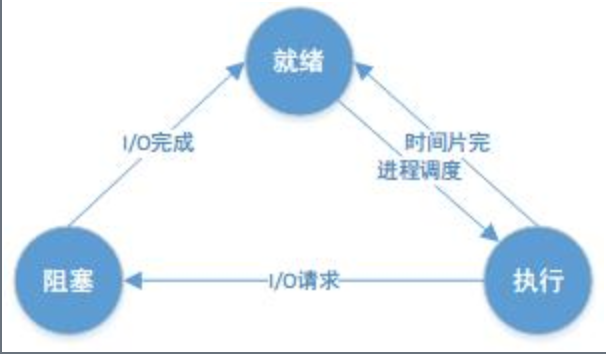
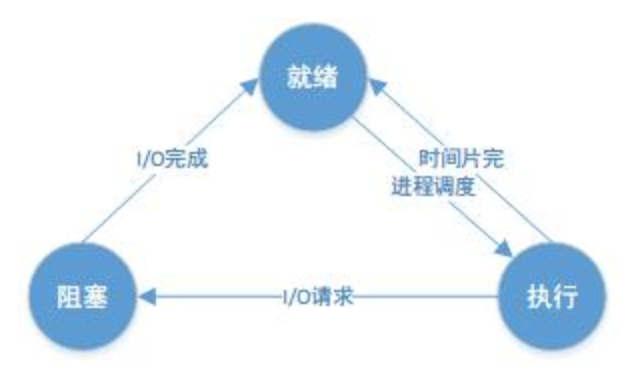
添加进程与线程的区别

Changed region(s): [[0.0, 0.0, 1.0, 1.0]]

diff --git a/Computer.md b/Computer.md
@@ -3,6 +3,7 @@
 #### 目录
 1. [IO操作](#computer_io)
 
+
 ----
 
 <span id = "computer_io"></span>
@@ -43,5 +44,133 @@
 	1. https://www.ibm.com/developerworks/cn/linux/l-cn-zerocopy1/index.html
 	2. https://www.ibm.com/developerworks/cn/linux/l-cn-zerocopy2/index.html
 	3. https://www.zhihu.com/question/27734728
+
+----
+
+<span id = "process_thread"></span>
+#### 进程与线程 [(TOP)](#home)
+1. 进程
+	1. 定义<br>
+		进程是一个具有独立功能的程序关于某个数据集合的一次运行活动。它可以申请和拥有系统资源，是一个动态的概念，是一个活动的实体。它不只是程序的代码，还包括当前的活动，通过程序计数器的值和处理寄存器的内容来表示。<br>
+		进程的概念主要有两点：<br>
+		1. 进程是一个实体，每一个进程都有它自己的地址空间，一般情况下，包括文本区域（text region）、数据区域（data region）和堆栈（stack region）。文本区域存储处理器执行的代码；数据区域存储变量和进程执行期间使用的动态分配的内存；堆栈区域存储着活动过程调用的指令和本地变量。
+		2. 进程是一个“执行中的程序”，程序是一个没有生命的实体，只有处理器赋予程序生命时，它才能成为一个活动的实体，我们称其为进程。
+	
+	2. 进程的基本状态
+		1. 三种状态
+			1. 阻塞态：等待某个事件的完成；
+			2. 就绪态：等待系统分配处理器以便运行；
+			3. 执行态：占有处理器正在运行。
+		2. 进程状态的切换<br>
+			![](https://github.com/yinfork/Android-Interview/blob/master/res/computer/process_state.png?raw=true)
+			1. 执行态 -> 阻塞态：往往是由于等待外设，等待主存等资源分配或等待人工干预而引起的。
+			2. 阻塞态 -> 就绪态：则是等待的条件已满足，只需分配到处理器后就能运行。
+			3. 执行态 -> 就绪态：不是由于自身原因，而是由外界原因使运行状态的进程让出处理器，这时候就变成就绪态。例如时间片用完，或有更高优先级的进程来抢占处理器等。
+			4. 就绪态 -> 执行态：系统按某种策略选中就绪队列中的一个进程占用处理器，此时就变成了运行态
+
+	3. 进程调度<br>
+		调度：执行的某些时刻，内核可以决定抢占当前进程，并重新开始一个先前被抢占的进程，这就是调度（cheduling），由内核中称为调度器（cheduler）代码实现，在内核调度了一个新的进程时，它就抢占当前进程，并进行上下文切换。
+		1. 调度种类<br>
+			高级、中级和低级调度作业从提交开始直到完成，往往要经历下述三级调度：
+			1. 高级调度：又称为作业调度，它决定把后备作业调入内存运行；
+			2. 中级调度：又称为在虚拟存储器中引入，在内、外存对换区进行进程对换。
+			3. 低级调度：又称为进程调度，它决定把就绪队列的某进程获得CPU；
+		
+		2. 非抢占式调度与抢占式调度
+			1. 非抢占式：分派程序一旦把处理机分配给某进程后便让它一直运行下去，直到进程完成或发生进程调度进程调度某事件而阻塞时，才把处理机分配给另一个进程。
+			2. 抢占式：操作系统将正在运行的进程强行暂停，由调度程序将CPU分配给其他就绪进程的调度方式。
+
+		3. 调度策略的设计<br>
+			CPU任务可以分为交互式任务和批处理任务，调度最终的目标是合理的使用CPU，使得交互式任务的响应时间尽可能短，用户不至于感到延迟，同时使得批处理任务的周转时间尽可能短，减少用户等待的时间。
+			1. 响应时间：从用户输入到产生反应的时间
+			2. 周转时间：从任务开始到任务结束的时间
+			3. 平均周转时间：周转总时间除以作业个数
+
+		4. 调度算法<br>
+			TODO：略
+	
+	4. 进程同步
+		1. 临界资源<br>
+			对于某些资源来说，其在同一时间只能被一个进程所占用。这些一次只能被一个进程所占用的资源就是所谓的临界资源。典型的临界资源比如物理上的打印机，或是存在硬盘或内存中被多个进程所共享的一些变量和数据等(如果这类资源不被看成临界资源加以保护，那么很有可能造成丢数据的问题)。
+		
+		2. 访问临界资源<br>
+			在操作系统中，**进程是占有资源的最小单位(线程可以访问其所在进程内的所有资源，但线程本身并不占有资源或仅仅占有一点必须资源)**。<br>
+			对于临界资源的访问，必须是互斥进行。也就是当临界资源被占用时，另一个申请临界资源的进程会被阻塞，直到其所申请的临界资源被释放。而进程内访问临界资源的代码被成为临界区。
+			对于临界区的访问过程分为四个部分：<br>
+			1. 进入区:查看临界区是否可访问，如果可以访问，则转到步骤二，否则进程会被阻塞
+			2. 临界区:在临界区做操作
+			3. 退出区:清除临界区被占用的标志
+			4. 剩余区：进程与临界区不相关部分的代码
+		
+		3. 解决临界区问题可能的方法：
+			1. 一般软件方法
+			2. 关中断方法
+			3. 硬件原子指令方法
+			4. 信号量方法
+
+		4. 信号量
+			信号量是一个确定的二元组（s，q），其中s是一个具有非负初值的整形变量，q是一个初始状态为空的队列
+			1. 整形变量s表示系统中某类资源的数目：
+				1. 当其值 >= 0 时，表示系统中当前可用资源的数目
+				2. 当其值 < 0 时，其绝对值表示系统中因请求该类资源而被阻塞的进程数目
+			2. PV操作<br>
+				除信号量的初值外，信号量的值仅能由P操作和V操作更改，操作系统利用它的状态对进程和资源进行管理
+				1. P操作可以理解为分配资源的计数器，或是使进程处于等待状态的控制指令
+				2. V操作可以理解为归还资源的计数器，或是唤醒进程使其处于就绪状态的控制指令
+
+	5. 进程间通信<br>
+		本地进程间通信的方式有很多，可以总结为下面四类：
+		1. 消息传递（管道、FIFO、消息队列）
+		2. 同步（互斥量、条件变量、读写锁、文件和写记录锁、信号量）
+		3. 共享内存（匿名的和具名的）
+		4. 远程过程调用（Solaris门和Sun RPC）
+
+2. 线程
+	1. 定义<br>
+		线程是 **操作系统能够进行运算调度的最小单位**。它被包含在进程之中，是进程中的实际运作单位。一条线程指的是进程中一个单一顺序的控制流，一个进程中可以并发多个线程，每条线程并行执行不同的任务
+
+	2. 线程的属性
+		1. 轻型实体<br>
+			线程的实体包括：
+			1. 程序
+			2. 数据
+			3. 线程控制块TCB（Thread Control Block）。TCB包括以下信息：
+				1. 线程状态。
+				2. 当线程不运行时，被保存的现场资源。
+				3. 一组执行堆栈。
+				4. 存放每个线程的局部变量主存区。
+				5. 访问同一个进程中的主存和其它资源。
+		
+		2. 独立调度和分派的基本单位：<br>
+			在多线程OS中，线程是能独立运行的基本单位，因而也是独立调度和分派的基本单位。由于线程很“轻”，故线程的切换非常迅速且开销小（在同一进程中的）。
+
+		3. 可并发执行：<br>
+			在一个进程中的多个线程之间，可以并发执行，甚至允许在一个进程中所有线程都能并发执行；同样，不同进程中的线程也能并发执行，充分利用和发挥了处理机与外围设备并行工作的能力。
+
+		4. 共享进程资源：<br>
+			在同一进程中的各个线程，都可以共享该进程所拥有的资源，这首先表现在：所有线程都具有相同的地址空间（进程的地址空间），这意味着，线程可以访问该地址空间的每一个虚地址；此外，还可以访问进程所拥有的已打开文件、定时器、信号量机构等。由于同一个进程内的线程共享内存和文件，所以线程之间互相通信不必调用内核。<br>
+			线程共享的环境包括：进程代码段、进程的公有数据(利用这些共享的数据，线程很容易的实现相互之间的通讯)、进程打开的文件描述符、信号的处理器、进程的当前目录和进程用户ID与进程组ID。
+
+	3. 线程的类别
+		1. 用户线程
+		2. 内核线程<br>
+		 	TODO
+		
+3. 线程和进程的区别：
+	1. 调度<br>		
+		在引入线程的操作系统中，线程是调度和分配的基本单位 ，进程是资源拥有的基本单位。<br>
+		把传统进程的两个属性分开，线程便能轻装运行，从而可显著地提高系统的并发程度。在操作系统设计上，从进程演化出线程，最主要的目的就是更好的支持SMP(对称多处理)以及减小上下文切换开销。<br>
+		在同一进程中，线程的切换不会引起进程的切换；在由一个进程中的线程切换到另一个进程中的线程时，才会引起进程的切换。
+	2. 并发性<br>
+		在引入线程的操作系统中，不仅进程之间可以并发执行，而且在一个进程中的多个线程之间亦可并发执行，因而使操作系统具有更好的并发性，从而能更有效地使用系统资源和提高系统吞吐量。
+	3. 拥有资源<br>
+		不论是传统的操作系统，还是设有线程的操作系统，进程都是拥有资源的一个独立单位，它可以拥有自己的资源。 一般地说，线程自己不拥有系统资源（只有一些必不可少的资源），但它可以访问其隶属进程的资源。
+	4. 系统开销<br>
+		由于在创建或撤消进程时，系统都要为之分配或回收资源，因此，操作系统所付出的开销将显著地大于在创建或撤消线程时的开销。 进程切换的开销也远大于线程切换的开销。
+
+4. 参考
+	1. http://blog.sina.com.cn/s/blog_4ae60332010005h0.html
+	2. https://www.jianshu.com/p/91c8600cb2ae
+	3. https://github.com/hadyang/interview/blob/master/basic/op/concurrency.md 
 
 
